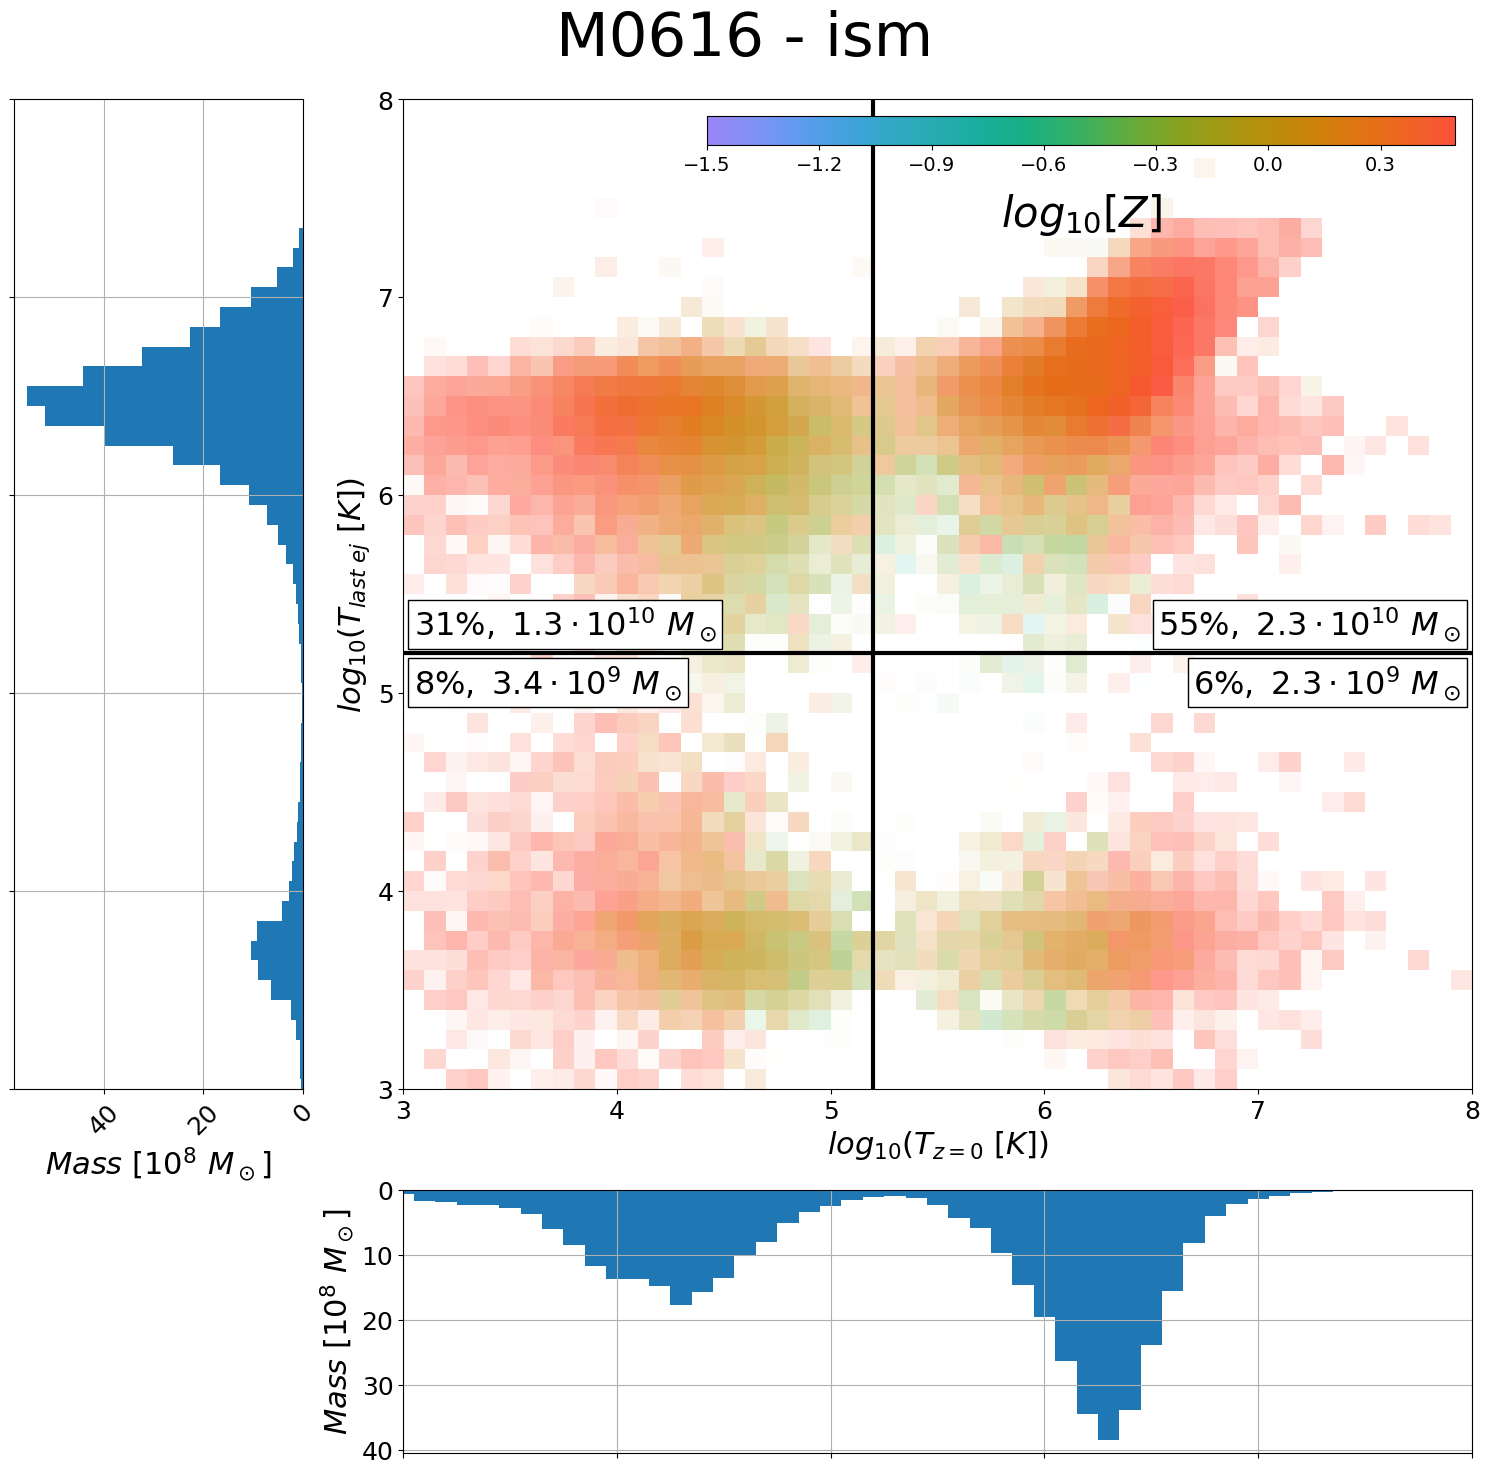
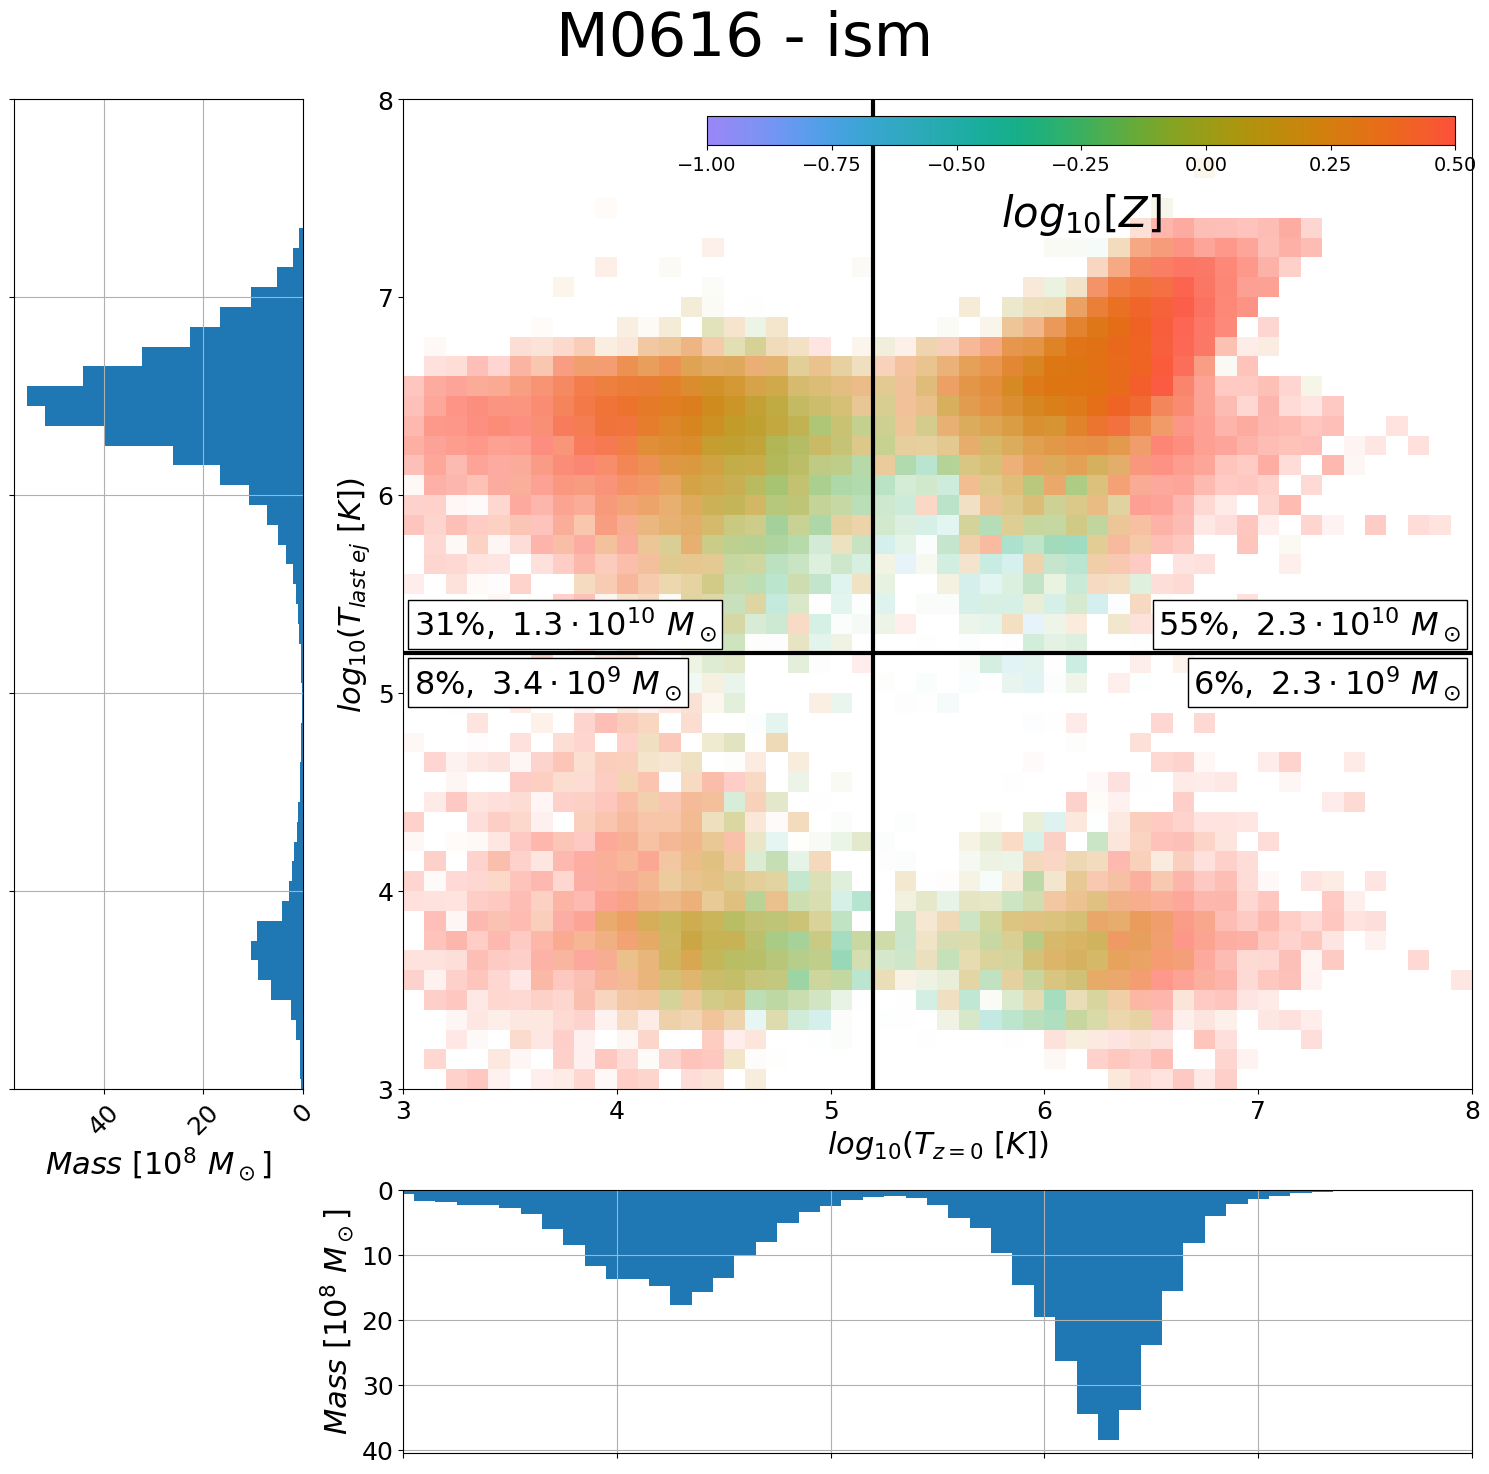
T_z0_vs_ej change colorbar xlimits again

diff --git a/1/T_z0_vs_ejection.py b/1/T_z0_vs_ejection.py
@@ -55,7 +55,7 @@ def plot(args):
     _, _, _, cbar = pg.plotting.scatter_map('log10(temp)', np.log10(last_T),
         s=cgm_m, qty='mass', colors=cgm_m['metallicity']/pg.solar.Z(),
         logscale=True, bins=[bins, bins], extent=[[3, 8], [3, 8]],
-        zero_is_white=True, clim=[10**-1.5, 10**.5], colors_av='mass', 
+        zero_is_white=True, clim=[10**-1., 10**.5], colors_av='mass', 
         clogscale=True, ax=ax1)
     cbar_ax = cbar.ax
     cbar_ax.set_xlabel(r'$log_{10} [ Z ] $', fontsize=30)
